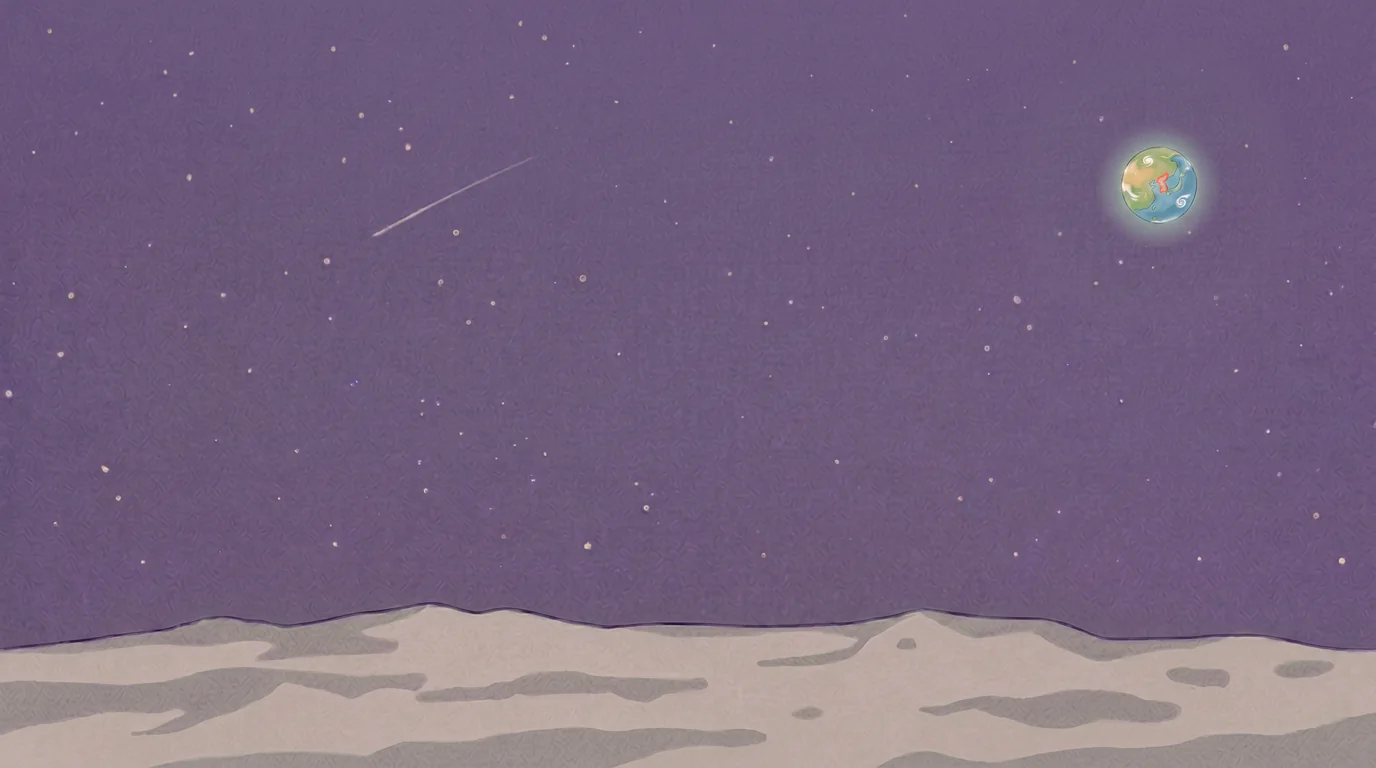
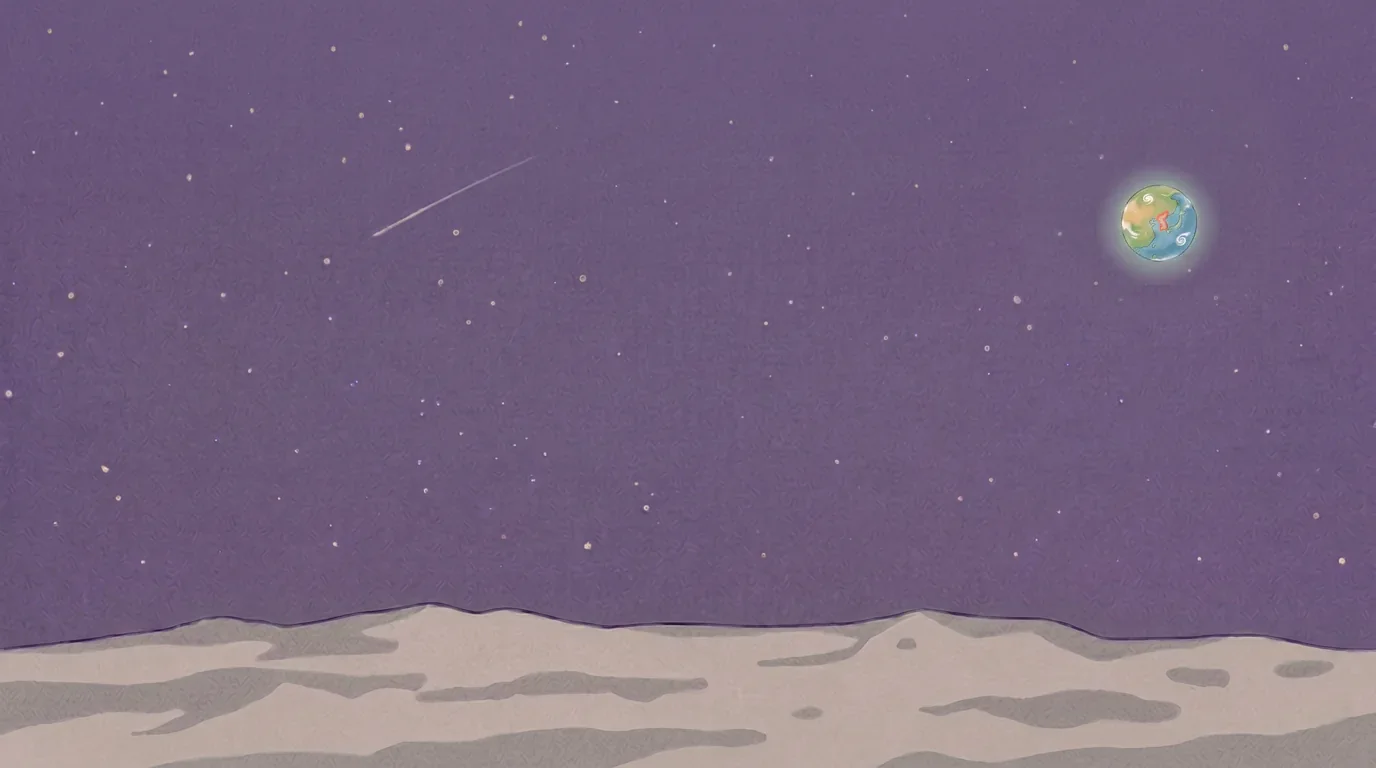
tune: 전 페이지 행성을 약 1cm(38px) 아래로 이동 — 배경 이미지에서 행성+글로우를 통째로 내리고 원래 자리는 같은 높이 하늘로 메꿔 잔상 제거, 코드의 천체 y좌표도 함께 갱신해 발광 링·클릭 영역 정합 유지

Changed region(s): [[0.7812, 0.1562, 0.9062, 0.375]]

diff --git a/index.html b/index.html
@@ -392,7 +392,7 @@
     function isMobile() { return window.innerWidth < 700; } // 모바일: 중앙 고정, 걷기 없음
 
     // moon-5.webp(1376×768) 속 토성 중심(1151,150) — cover 배치를 화면 좌표로 환산
-    var SAT = { w: 1376, h: 768, x: 1151, y: 151, r: 78 }; // 복숭아빛 가스행성(다른 페이지와 동일 크기·위치)
+    var SAT = { w: 1376, h: 768, x: 1151, y: 189, r: 78 }; // 복숭아빛 가스행성(다른 페이지와 동일 크기·위치)
     var vpBox = document.createElement("div");   // 배경(fixed inset:0)과 같은 박스 — 스크롤바 편차 제거
     vpBox.style.cssText = "position:fixed;inset:0;pointer-events:none;visibility:hidden";
     document.body.appendChild(vpBox);

diff --git a/apps.html b/apps.html
@@ -183,7 +183,7 @@
       var vp = document.createElement("div");
       vp.style.cssText = "position:fixed;inset:0;pointer-events:none;visibility:hidden";
       document.body.appendChild(vp);
-      var SAT = { w: 1376, h: 768, x: 1152, y: 152, r: 45, rx: 39, ry: 39 }; // 실측 행성 중심·반경
+      var SAT = { w: 1376, h: 768, x: 1152, y: 190, r: 45, rx: 39, ry: 39 }; // 실측 행성 중심·반경
       function place() {
         var vb = vp.getBoundingClientRect();
         var W = vb.width, H = vb.height;

diff --git a/play/fortune-hub.html b/play/fortune-hub.html
@@ -187,7 +187,7 @@
       var vp = document.createElement("div");
       vp.style.cssText = "position:fixed;inset:0;pointer-events:none;visibility:hidden";
       document.body.appendChild(vp);
-      var SAT = { w: 1376, h: 768, x: 1151, y: 152, r: 50, rx: 43, ry: 43 }; // 실측 행성 중심·반경
+      var SAT = { w: 1376, h: 768, x: 1151, y: 190, r: 50, rx: 43, ry: 43 }; // 실측 행성 중심·반경
       function place() {
         var vb = vp.getBoundingClientRect();
         var W = vb.width, H = vb.height;

diff --git a/play/mini.html b/play/mini.html
@@ -161,7 +161,7 @@
       var vp = document.createElement("div");
       vp.style.cssText = "position:fixed;inset:0;pointer-events:none;visibility:hidden";
       document.body.appendChild(vp);
-      var SAT = { w: 1376, h: 768, x: 1160, y: 152, r: 43, rx: 34, ry: 38 }; // 실측 행성 중심·반경
+      var SAT = { w: 1376, h: 768, x: 1160, y: 190, r: 43, rx: 34, ry: 38 }; // 실측 행성 중심·반경
       function place() {
         var vb = vp.getBoundingClientRect();
         var W = vb.width, H = vb.height;

diff --git a/play/mini2.html b/play/mini2.html
@@ -156,7 +156,7 @@
       var vp = document.createElement("div");
       vp.style.cssText = "position:fixed;inset:0;pointer-events:none;visibility:hidden";
       document.body.appendChild(vp);
-      var SAT = { w: 1376, h: 768, x: 1152, y: 152, r: 58, rx: 43, ry: 44 }; // 실측 행성 중심·반경
+      var SAT = { w: 1376, h: 768, x: 1152, y: 190, r: 58, rx: 43, ry: 44 }; // 실측 행성 중심·반경
       function place() {
         var vb = vp.getBoundingClientRect();
         var W = vb.width, H = vb.height;

diff --git a/play/tests.html b/play/tests.html
@@ -163,7 +163,7 @@
       var vp = document.createElement("div");
       vp.style.cssText = "position:fixed;inset:0;pointer-events:none;visibility:hidden";
       document.body.appendChild(vp);
-      var SAT = { w: 1376, h: 768, x: 1152, y: 178, r: 32, rx: 32, ry: 31 }; // 실측 행성 중심·반경
+      var SAT = { w: 1376, h: 768, x: 1152, y: 216, r: 32, rx: 32, ry: 31 }; // 실측 행성 중심·반경
       function place() {
         var vb = vp.getBoundingClientRect();
         var W = vb.width, H = vb.height;
